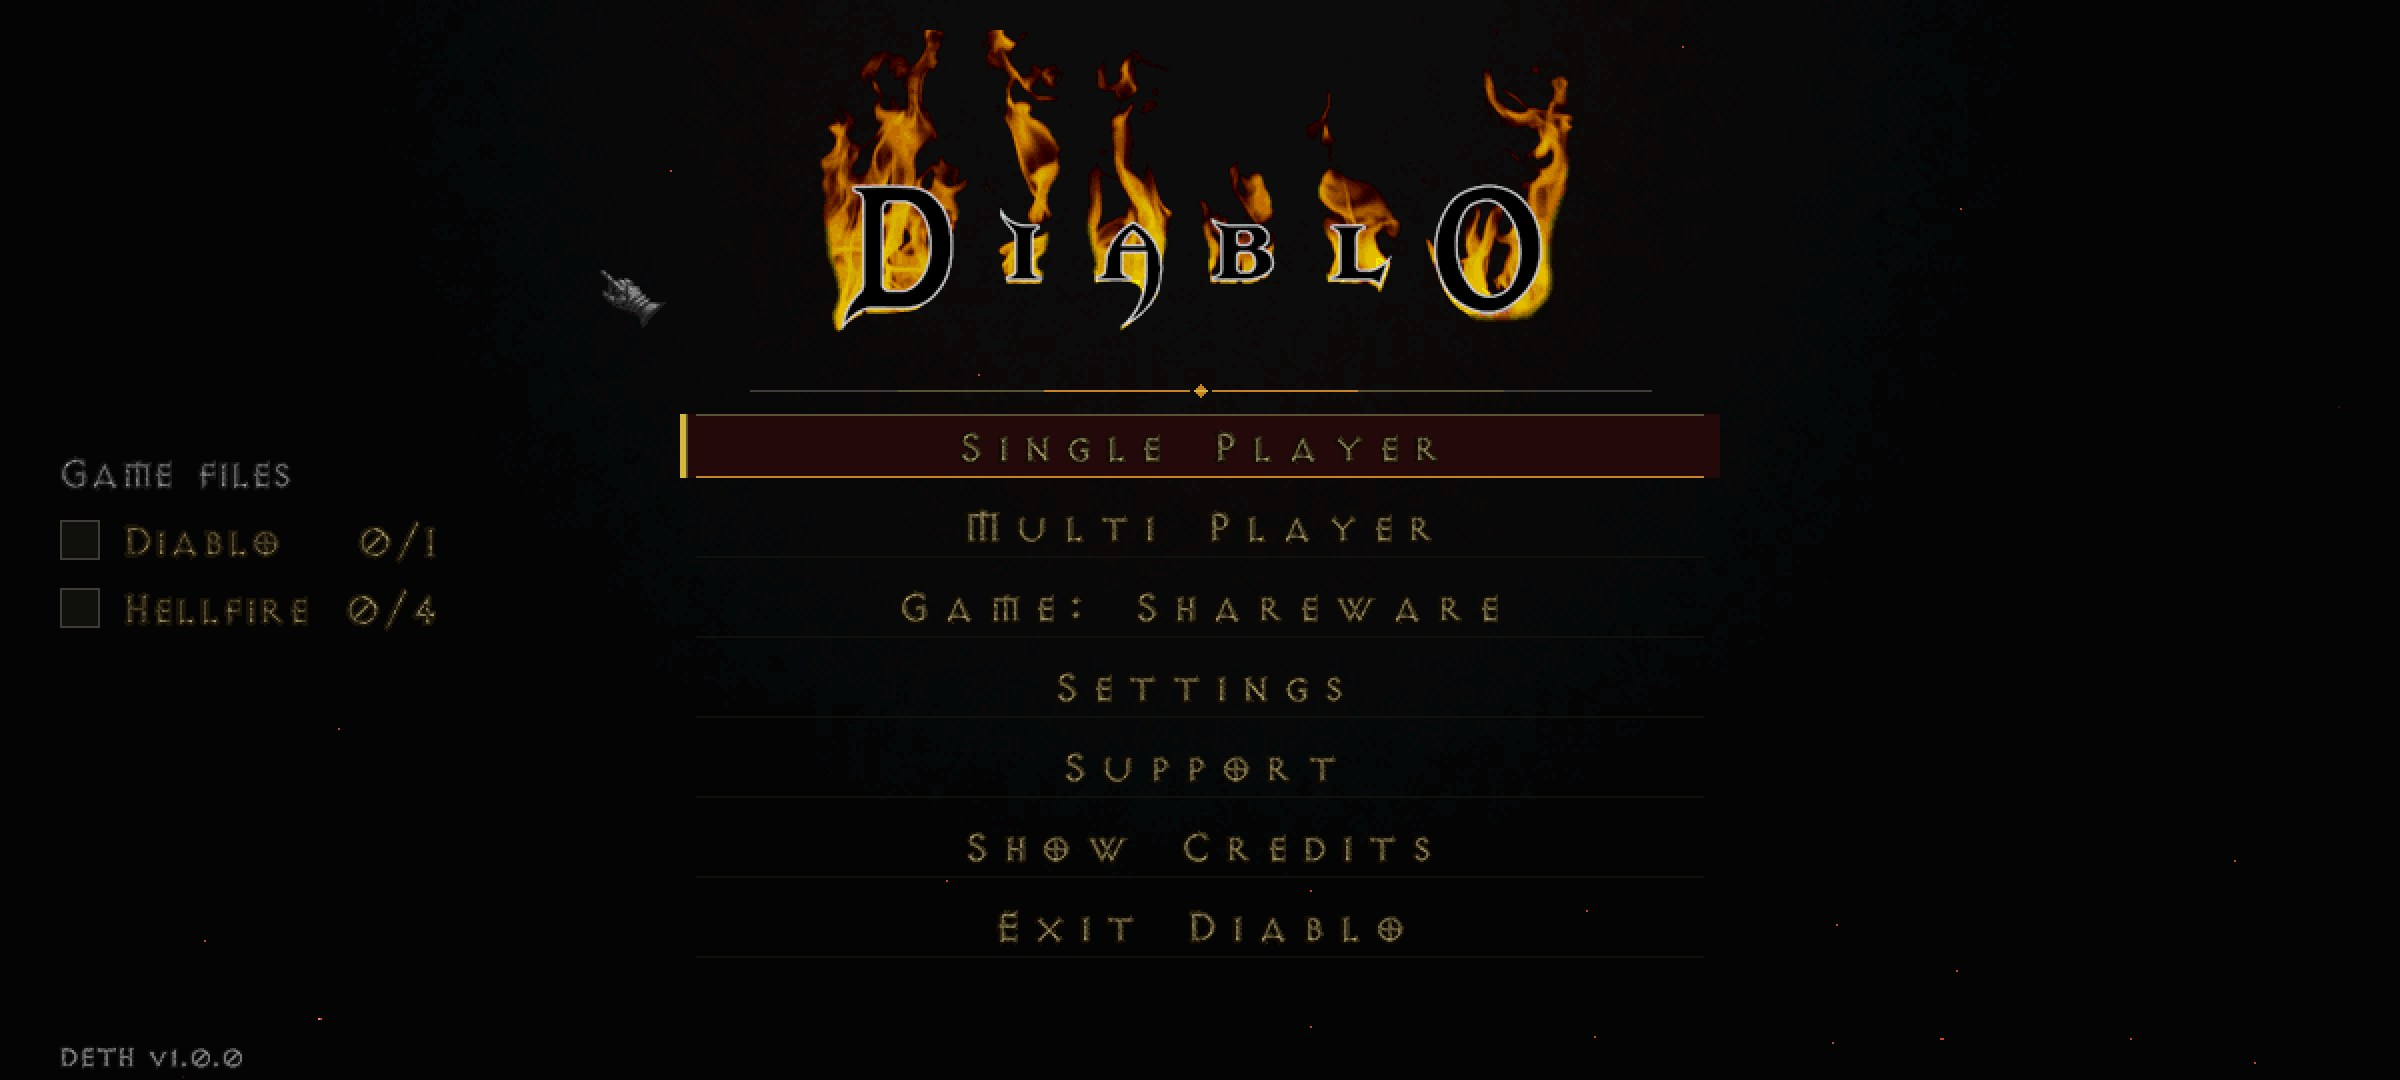
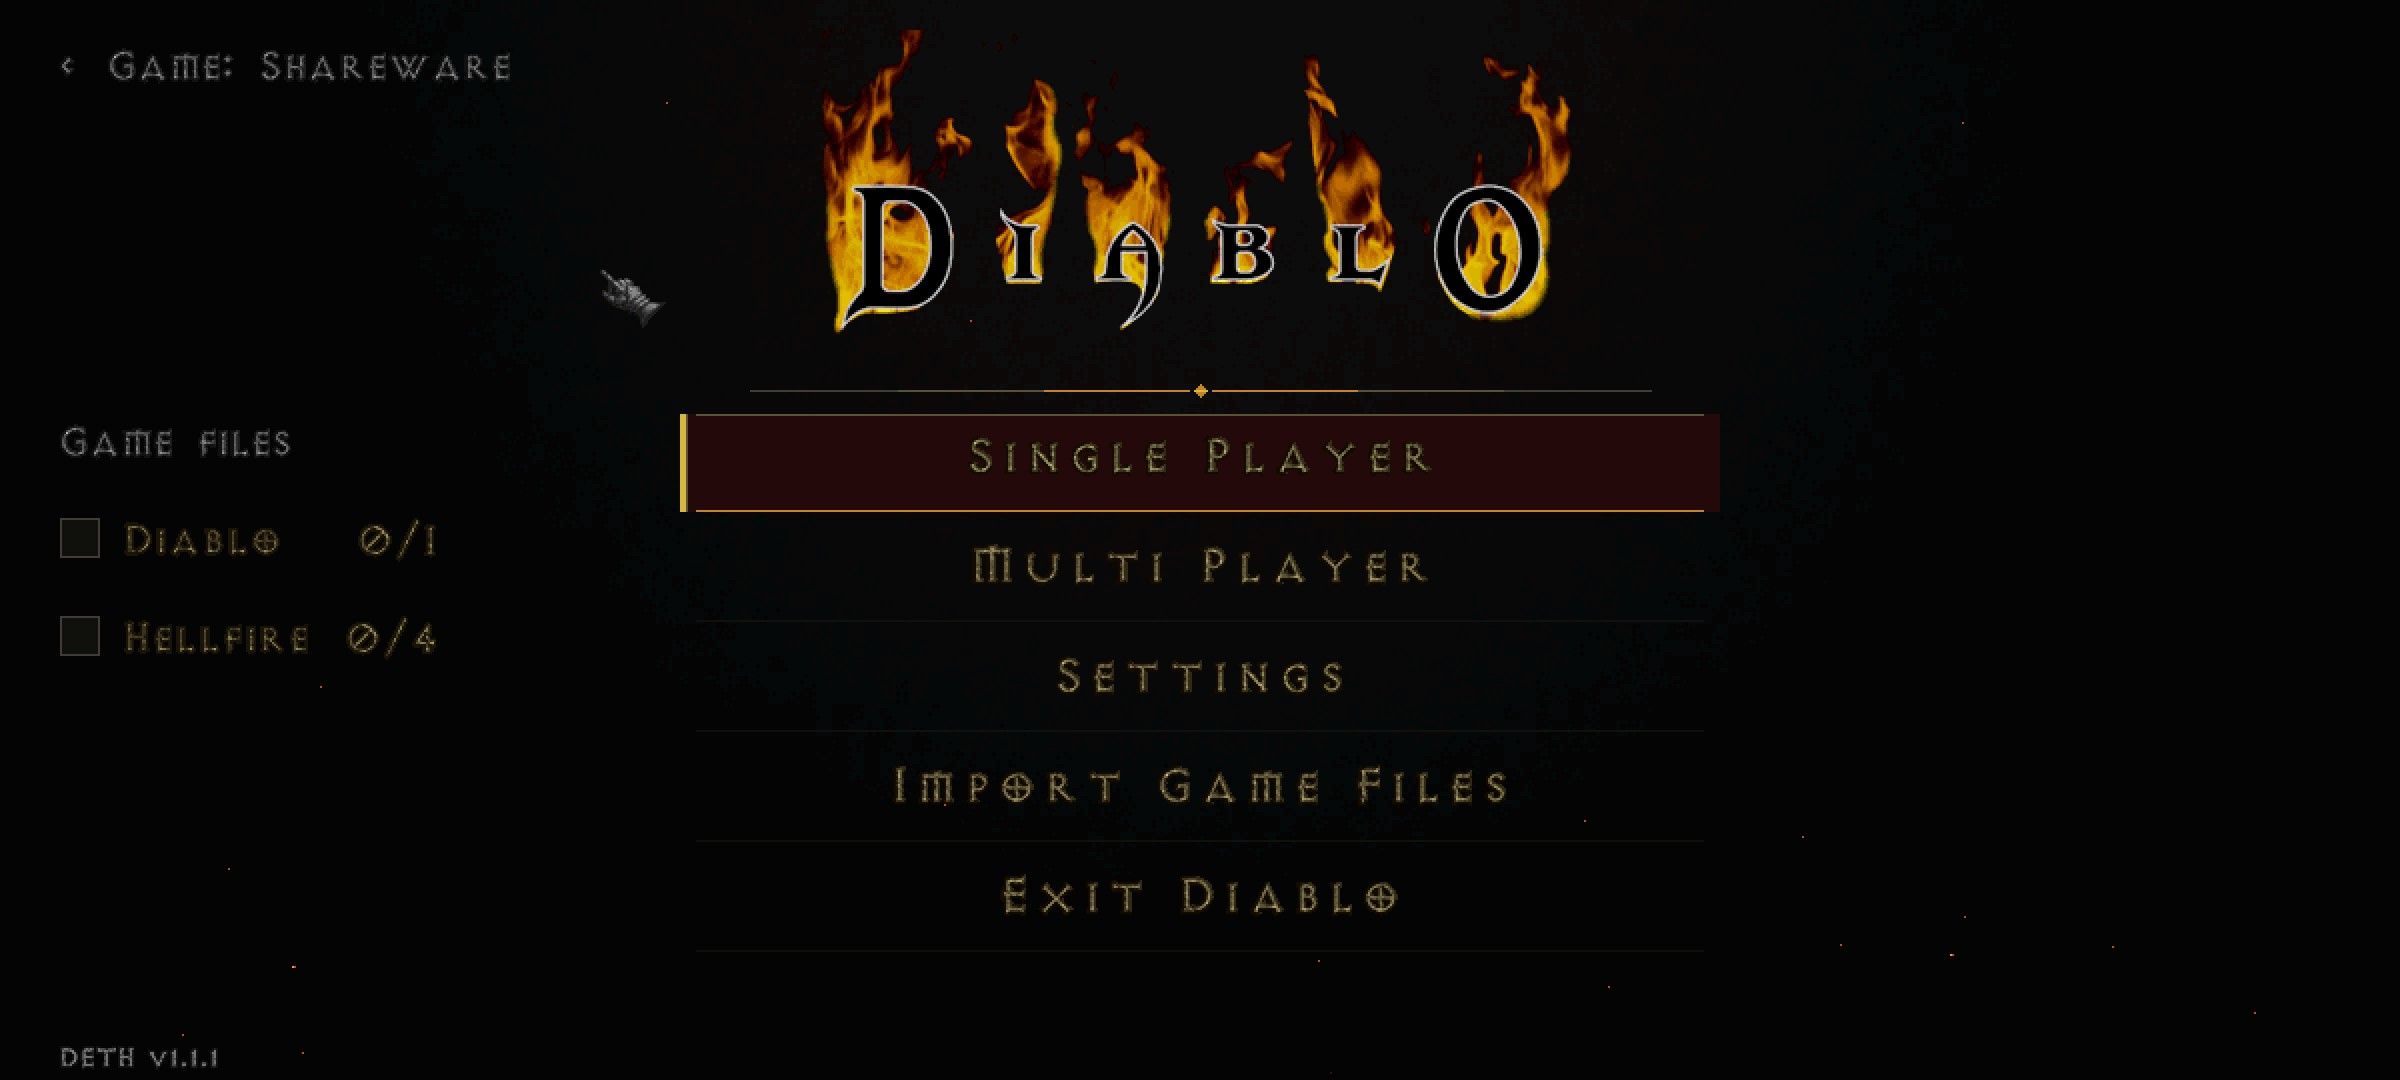
README: 1.1 features, import steps, new main menu screenshot

diff --git a/README.md b/README.md
@@ -9,12 +9,14 @@
 
 ## What you get
 
-- **Built for touch and controllers.** Compact HUD with the belt on the bottom edge, on-screen controls on phones, an Xbox-style layout with a right-stick cursor, zoom and UI scale set independently. Holding A keeps attacking.
+- **Built for touch and controllers.** Compact HUD with the belt on the bottom edge, on-screen controls on phones, an Xbox-style layout with a right-stick cursor, zoom and UI scale set independently.
+- **Combat that flows on a pad.** Hold A and every attack goes to the nearest enemy, like tapping. Push the stick while holding A to step between attacks; once a hit lands, the stick walks you away at once. With the stick pushed, bows and spells go for the enemy in that direction.
 - **Play with friends, by code only.** Online: host a private game and share a 10-character join code; no account, no extra app, and only people with the code can find the game. Same Wi-Fi: a 6-character code. Nobody ever sees or types an address.
 - **Never lose a character.** Autosave every 2 minutes, kept apart from your own saves. Saves live in `Downloads/DETH`, so they survive an uninstall and copy between devices.
-- **Shareware, Diablo or Hellfire.** The free shareware is built in. Import Game Files on the main menu takes `DIABDAT.MPQ`, the Hellfire files, a folder, a zip, 7z, rar or tar.gz (also password protected) or GOG's installer on PC; a checklist on the main menu shows what is found.
+- **Shareware, Diablo or Hellfire.** The free shareware is built in. Import Game Files takes `DIABDAT.MPQ`, the Hellfire files, a folder, a zip, 7z, rar or tar.gz (also password protected, also archives inside archives) or GOG's installer on PC, and lists what it finds in Downloads so a controller can pick it. A checklist on the main menu shows what is installed.
 - **A bigger pack.** Cain can enlarge your inventory by a row, twice, for 10,000 gold each.
-- **Mods.** Scroll Books (Adria sells tomes that hold 50 scrolls) and Gold Magnet, switched on under Settings > Mods. Joining a game with different mods offers to use the host's for that game only.
+- **Better stores.** Every weapon shows its damage per second, and your own items are grouped by kind when you sell, repair, recharge or identify.
+- **Mods, all on from the start.** Scroll Books (Adria sells slim tomes that hold 50 scrolls), Gold Magnet, floating damage and XP numbers, a clock and Adria refilling mana; switch any of them off under Settings > Mods. Joining a game with different mods offers to use the host's for that game only.
 - **Monster Strength.** In multiplayer the host sets it from 50% to 300%: monsters hit harder, take longer to kill and give more experience.
 - **Updates in the game.** Settings > Check for Updates, with a Stable and a Beta channel.
 
@@ -33,11 +35,11 @@
 
 ## Install
 
-**Android:** install `DETH<version>.apk` (allow installs from unknown sources). On first start choose **Import Game Files** and pick `DIABDAT.MPQ` (or a `.zip` containing it), or play the shareware. Allow "All files access" when asked so saves can live in Downloads.
+**Android:** install `DETH<version>.apk` (allow installs from unknown sources). On first start choose **Import Game Files** and pick `DIABDAT.MPQ` or an archive with it (zip, 7z, tar.gz, also password protected), or play the shareware. Allow "All files access" when asked so saves can live in Downloads.
 
-**Windows:** unzip `DETH<version>-windows.zip` anywhere and run `DETH.exe`. Settings stay in that folder; saves go to `Downloads\DETH\saves`. For the full game, copy `DIABDAT.MPQ` into the folder.
+**Windows:** unzip `DETH<version>-windows.zip` anywhere and run `DETH.exe`. Settings stay in that folder; saves go to `Downloads\DETH\saves`. For the full game, choose **Import Game Files** and pick your files or archive (from Downloads, the DETH folder or Browse), or copy `DIABDAT.MPQ` into the folder.
 
-**SteamOS and Linux:** open `DETH<version>.flatpak` in Desktop Mode (Discover installs it) or run `flatpak install --user DETH<version>.flatpak`. For the full game, copy `DIABDAT.MPQ` into `~/Downloads/DETH`. In Steam, **Add a Non-Steam Game** and pick DETH.
+**SteamOS and Linux:** open `DETH<version>.flatpak` in Desktop Mode (Discover installs it) or run `flatpak install --user DETH<version>.flatpak`. For the full game, put your files or archive in `~/Downloads` and choose **Import Game Files**, or copy `DIABDAT.MPQ` into `~/Downloads/DETH`. In Steam, **Add a Non-Steam Game** and pick DETH.
 
 Hellfire on any platform: also `hellfire.mpq`, `hfmonk.mpq`, `hfmusic.mpq` and `hfvoice.mpq`, next to `DIABDAT.MPQ`.
 
@@ -62,7 +64,7 @@ Everyone needs the same game (Shareware, Diablo or Hellfire) and the same DETH v
 | View + A, B, X, Y | Quick spells | |
 | Menu | Game menu | |
 
-Change any button under Settings > Gamepad Mapping.
+On the main menu, Left and Right open the corner buttons: the game (Diablo, Hellfire or shareware) and Import Game Files. Change any button under Settings > Gamepad Mapping.
 
 | Keyboard | Action |
 |---|---|
